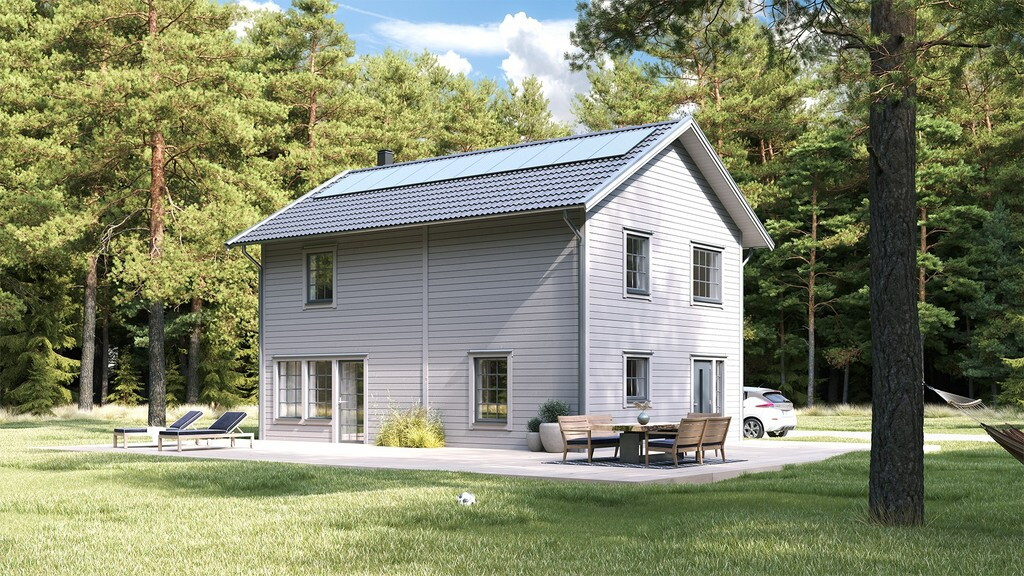
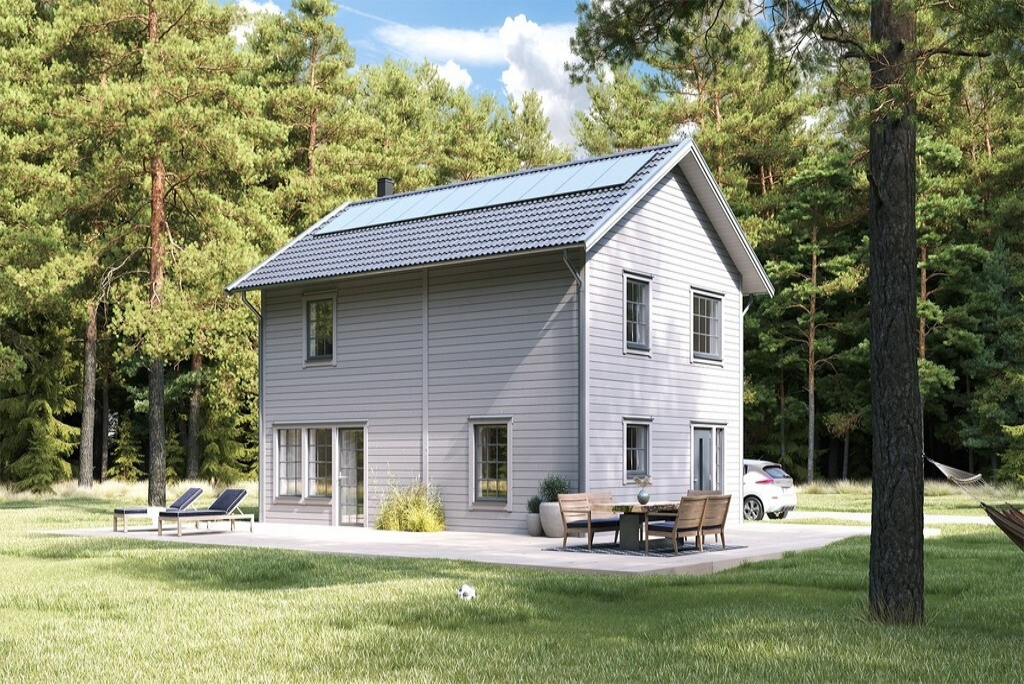
Resized image & removed unnecessary code from carousel

diff --git a/www/js/StartPageCarousel.js b/www/js/StartPageCarousel.js
@@ -12,16 +12,16 @@ class StartPageCarousel extends Base {
 
           <!-- Wrapper for slides -->
           <div class="carousel-inner">
-            <div style="max-height:400px" class="item active">
-              <img style="width:100%; max-height:100%" src="../images/ExampleHouse1.jpg">
+            <div class="item active">
+              <img src="../images/ExampleHouse1.jpg">
             </div>
 
-            <div style="max-height:400px" class="item">
-              <img style="width:100%; max-height:100%" src="../images/ExampleHouse2.jpg" display="block">
+            <div class="item">
+              <img src="../images/ExampleHouse2.jpg" display="block">
             </div>
 
-            <div style="max-height:400px" class="item">
-              <img style="width:100%; max-height:100%" src="../images/ExampleHouse3.jpg">
+            <div class="item">
+              <img src="../images/ExampleHouse3.jpg">
             </div>
           </div>
 
